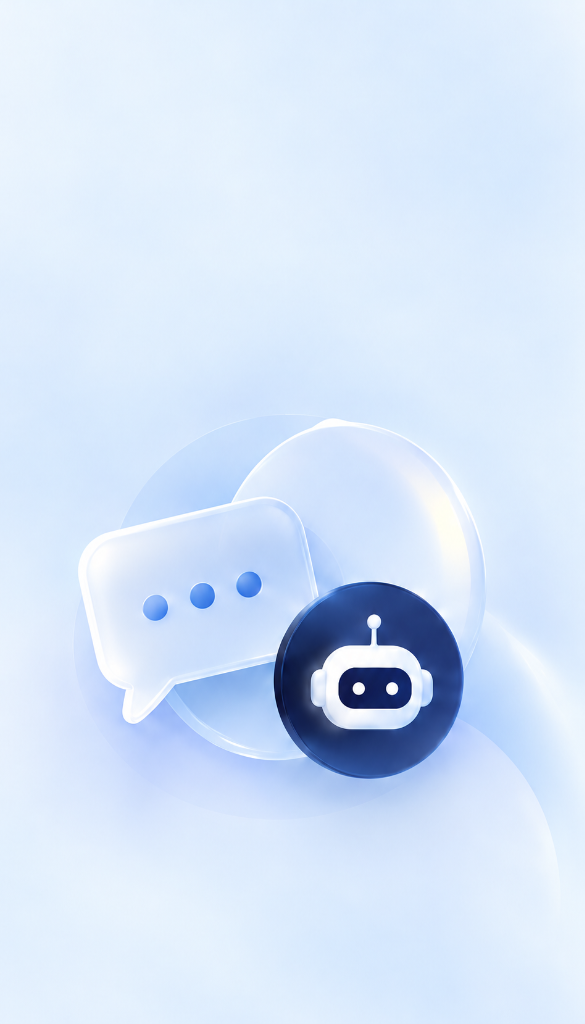
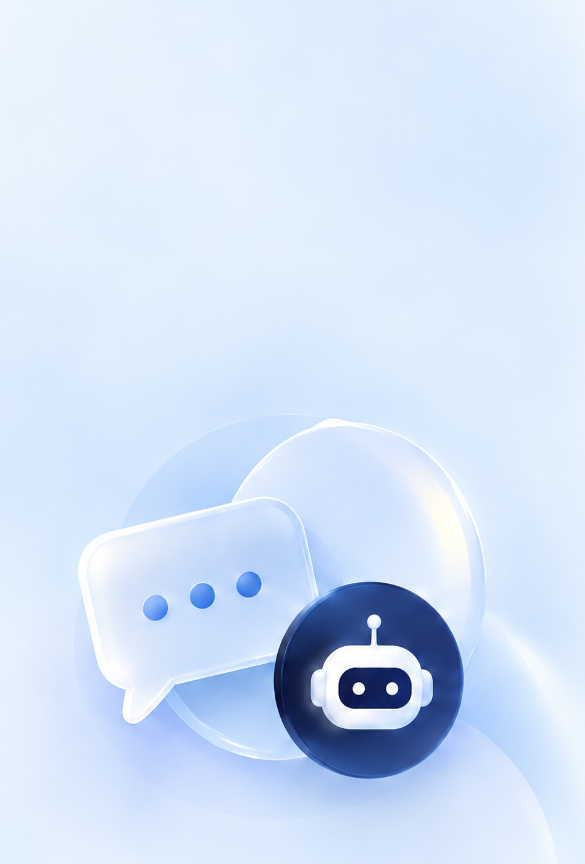
Ajuste de encuadre y espaciado del fondo ilustrado en la pantalla de acceso

diff --git a/portal.html b/portal.html
@@ -3050,7 +3050,7 @@
             flex-direction: row;
             max-width: 1020px;
             width: 100%;
-            min-height: 620px;
+            min-height: 660px;
             border-radius: 26px;
             background: #FFFFFF;
             border: 1px solid rgba(255, 255, 255, 0.85);
@@ -3068,22 +3068,22 @@
 
         .auth-portal-hero {
             flex: 0 0 42%;
-            min-width: 340px;
-            background-color: #E6EDF6;
+            min-width: 350px;
+            background-color: #E2EBF5;
             background-image: url('/assets/auth-hero-light.png');
             background-repeat: no-repeat;
             background-position: center bottom;
             background-size: cover;
-            padding: 44px 40px;
+            padding: 44px 44px 36px 44px;
             display: flex;
             flex-direction: column;
-            justify-content: flex-start;
+            justify-content: space-between;
             box-sizing: border-box;
             position: relative;
             border-right: 1px solid rgba(226, 232, 240, 0.8);
         }
 
-        .auth-hero-content {
+        .auth-hero-header {
             display: flex;
             flex-direction: column;
             align-items: flex-start;
@@ -3095,7 +3095,7 @@
             display: flex;
             align-items: center;
             gap: 10px;
-            margin-bottom: 26px;
+            margin-bottom: 22px;
         }
 
         .auth-brand-logo {
@@ -3109,49 +3109,48 @@
         }
 
         .auth-brand-name {
-            font-size: 1.12rem;
+            font-size: 1.15rem;
             font-weight: 800;
             letter-spacing: -0.4px;
             color: #020C21;
         }
 
         .auth-hero-tag {
-            display: inline-block;
-            font-size: 0.68rem;
-            font-weight: 800;
-            letter-spacing: 1.2px;
+            font-size: 0.70rem;
+            font-weight: 700;
+            letter-spacing: 1.5px;
             text-transform: uppercase;
-            color: #4A78B0;
-            background: rgba(74, 120, 176, 0.12);
-            border: 1px solid rgba(74, 120, 176, 0.22);
-            padding: 4px 12px;
-            border-radius: 999px;
-            margin-bottom: 14px;
+            color: #5E7A9C;
+            margin-bottom: 12px;
+            display: block;
         }
 
         .auth-hero-title {
-            font-size: 2.35rem;
+            font-size: 2.25rem;
             font-weight: 800;
             line-height: 1.12;
             letter-spacing: -0.8px;
             color: #020C21;
-            margin: 0 0 12px 0;
+            margin: 0 0 14px 0;
         }
 
         .auth-hero-desc {
-            font-size: 0.92rem;
+            font-size: 0.90rem;
             color: #59627E;
-            line-height: 1.5;
-            margin: 0 0 16px 0;
-            max-width: 320px;
+            line-height: 1.45;
+            margin: 0;
+            max-width: 290px;
         }
 
         .auth-hero-footer {
-            font-size: 0.8rem;
+            font-size: 0.80rem;
             color: #59627E;
             font-weight: 600;
             letter-spacing: 0.2px;
-            opacity: 0.9;
+            opacity: 0.95;
+            position: relative;
+            z-index: 2;
+            margin-top: auto;
         }
 
         .auth-portal-form-col {
@@ -6653,7 +6652,7 @@
                 <div class="auth-portal-card">
                     <!-- COLUMNA IZQUIERDA: Identidad Klyven Studio e Ilustración -->
                     <div class="auth-portal-hero">
-                        <div class="auth-hero-content">
+                        <div class="auth-hero-header">
                             <!-- 1. Logotipo original de Klyven Studio -->
                             <div class="auth-hero-brand">
                                 <img src="https://klyvenstudio.com/assets/logo-Ze6ecQUw.png" alt="Klyven Studio" onerror="this.src='/assets/logo-main.png'" class="auth-brand-logo auth-portal-logo-main" />
@@ -6669,10 +6668,10 @@
 
                             <!-- 4. Descripción -->
                             <p class="auth-hero-desc">Accede para personalizar tu chatbot y gestionar tu negocio.</p>
-
-                            <!-- 5. Texto discreto inferior -->
-                            <div class="auth-hero-footer">Diseñado para tu negocio.</div>
                         </div>
+
+                        <!-- 5. Texto discreto inferior -->
+                        <div class="auth-hero-footer">Diseñado para tu negocio.</div>
                     </div>
 
                     <!-- COLUMNA DERECHA: Formulario de Acceso -->
